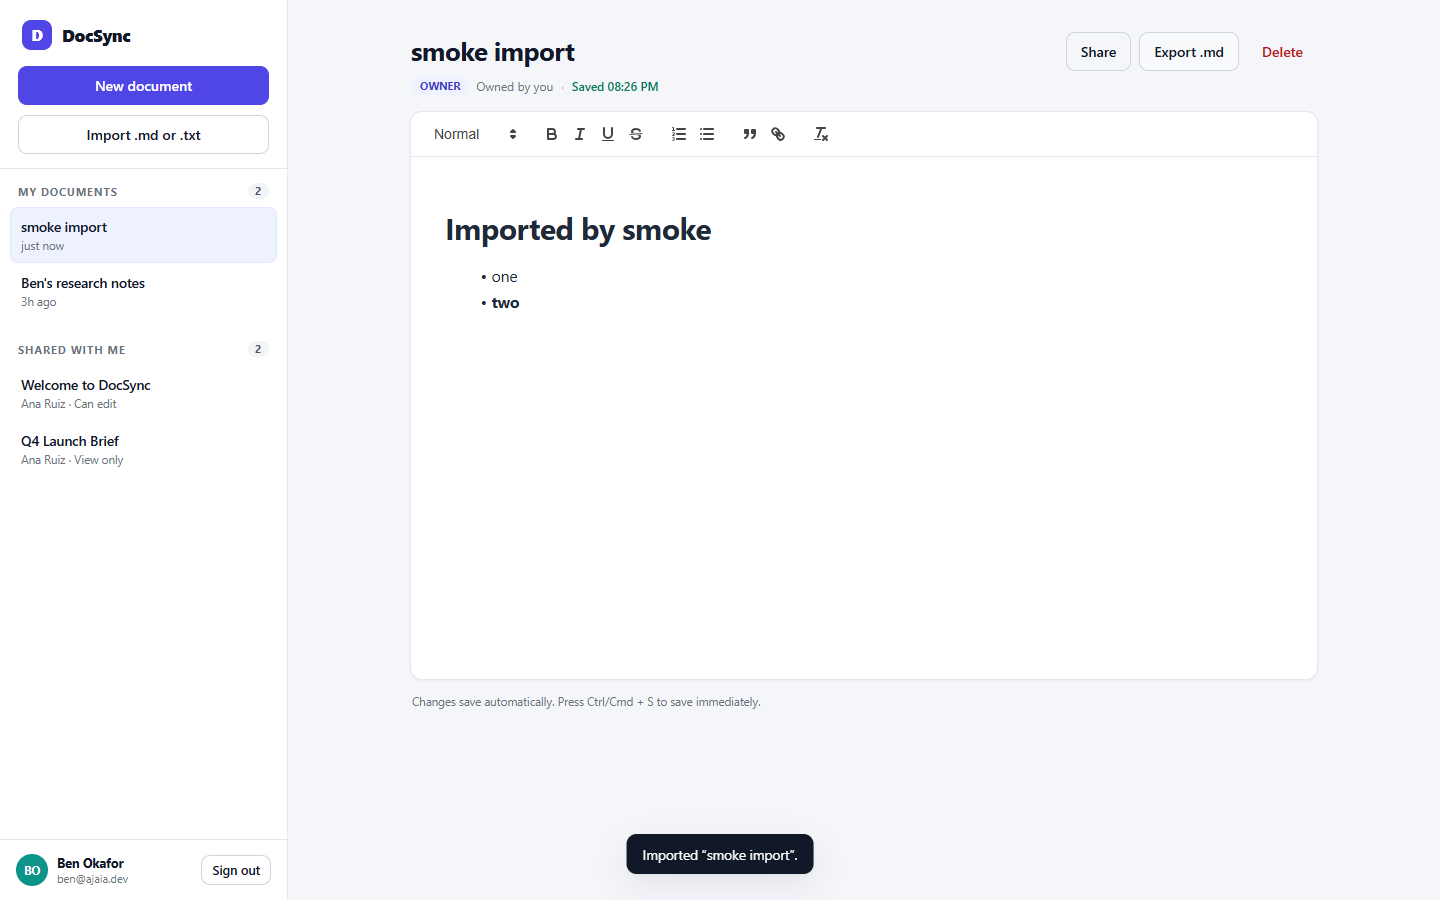
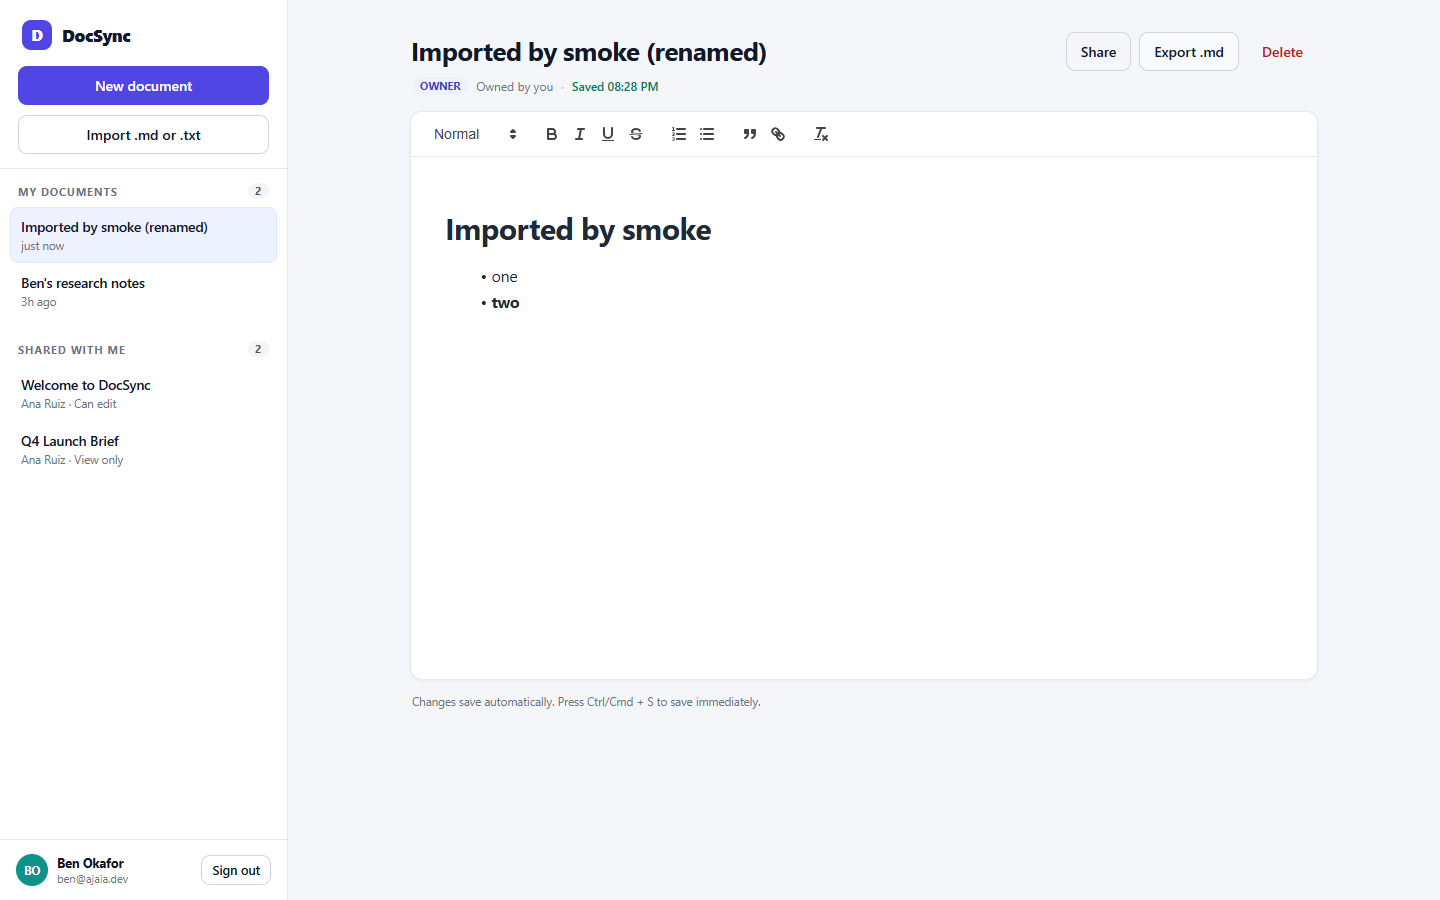
Verify rename and keyboard save in browser smoke test; add live URL placeholder

Changed region(s): [[0.2812, 0.0311, 0.5312, 0.0933], [0.4375, 0.9022, 0.5625, 0.9956], [0.0, 0.2489, 0.1562, 0.28]]

diff --git a/SUBMISSION.md b/SUBMISSION.md
@@ -65,7 +65,7 @@ The SQLite database and demo data are created automatically at `data/docsync.db`
 - **Owned vs shared:** separate sidebar sections, role badges, and owner attribution on every card.
 - **Export:** any collaborator can download the document as Markdown.
 - **Quality:** validation on every input, consistent JSON error envelope, security headers, CSP, 2 MB upload cap, 200k character content cap.
-- **Tests:** 7 API integration tests and a 10-step real-browser smoke test, both green.
+- **Tests:** 7 API integration tests and a real-browser smoke test, both green.
 
 ## What is intentionally incomplete
 
